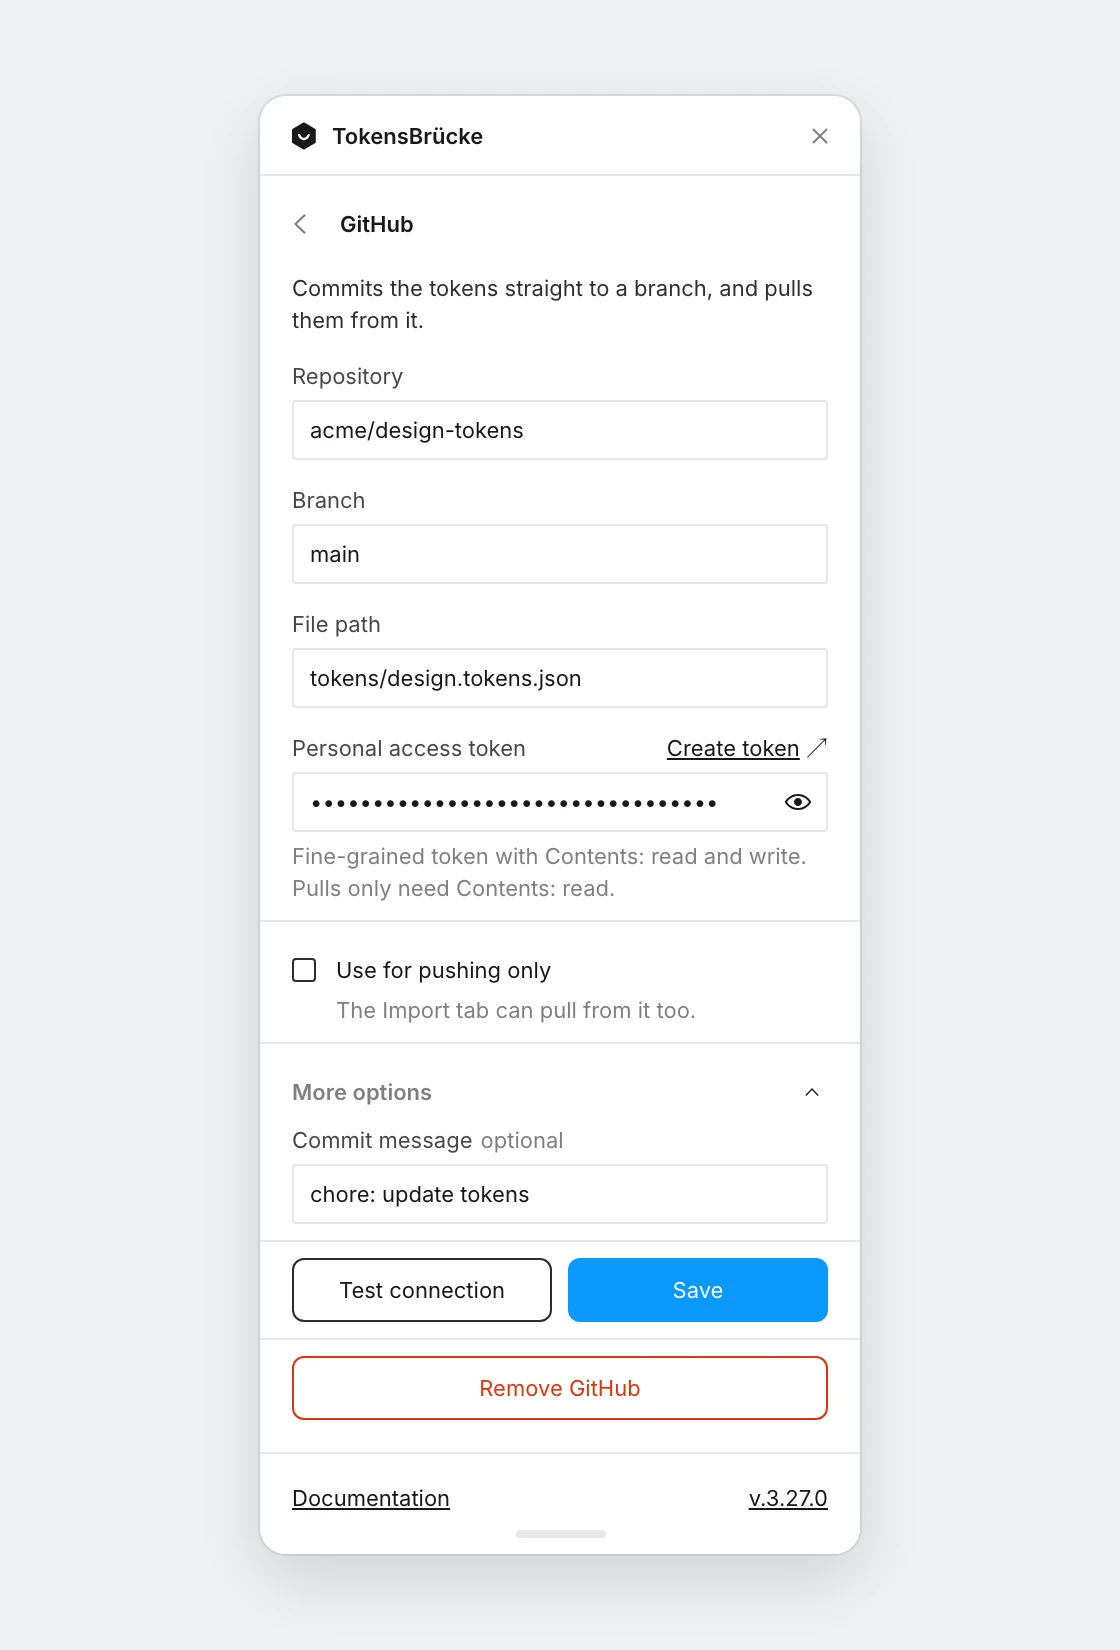
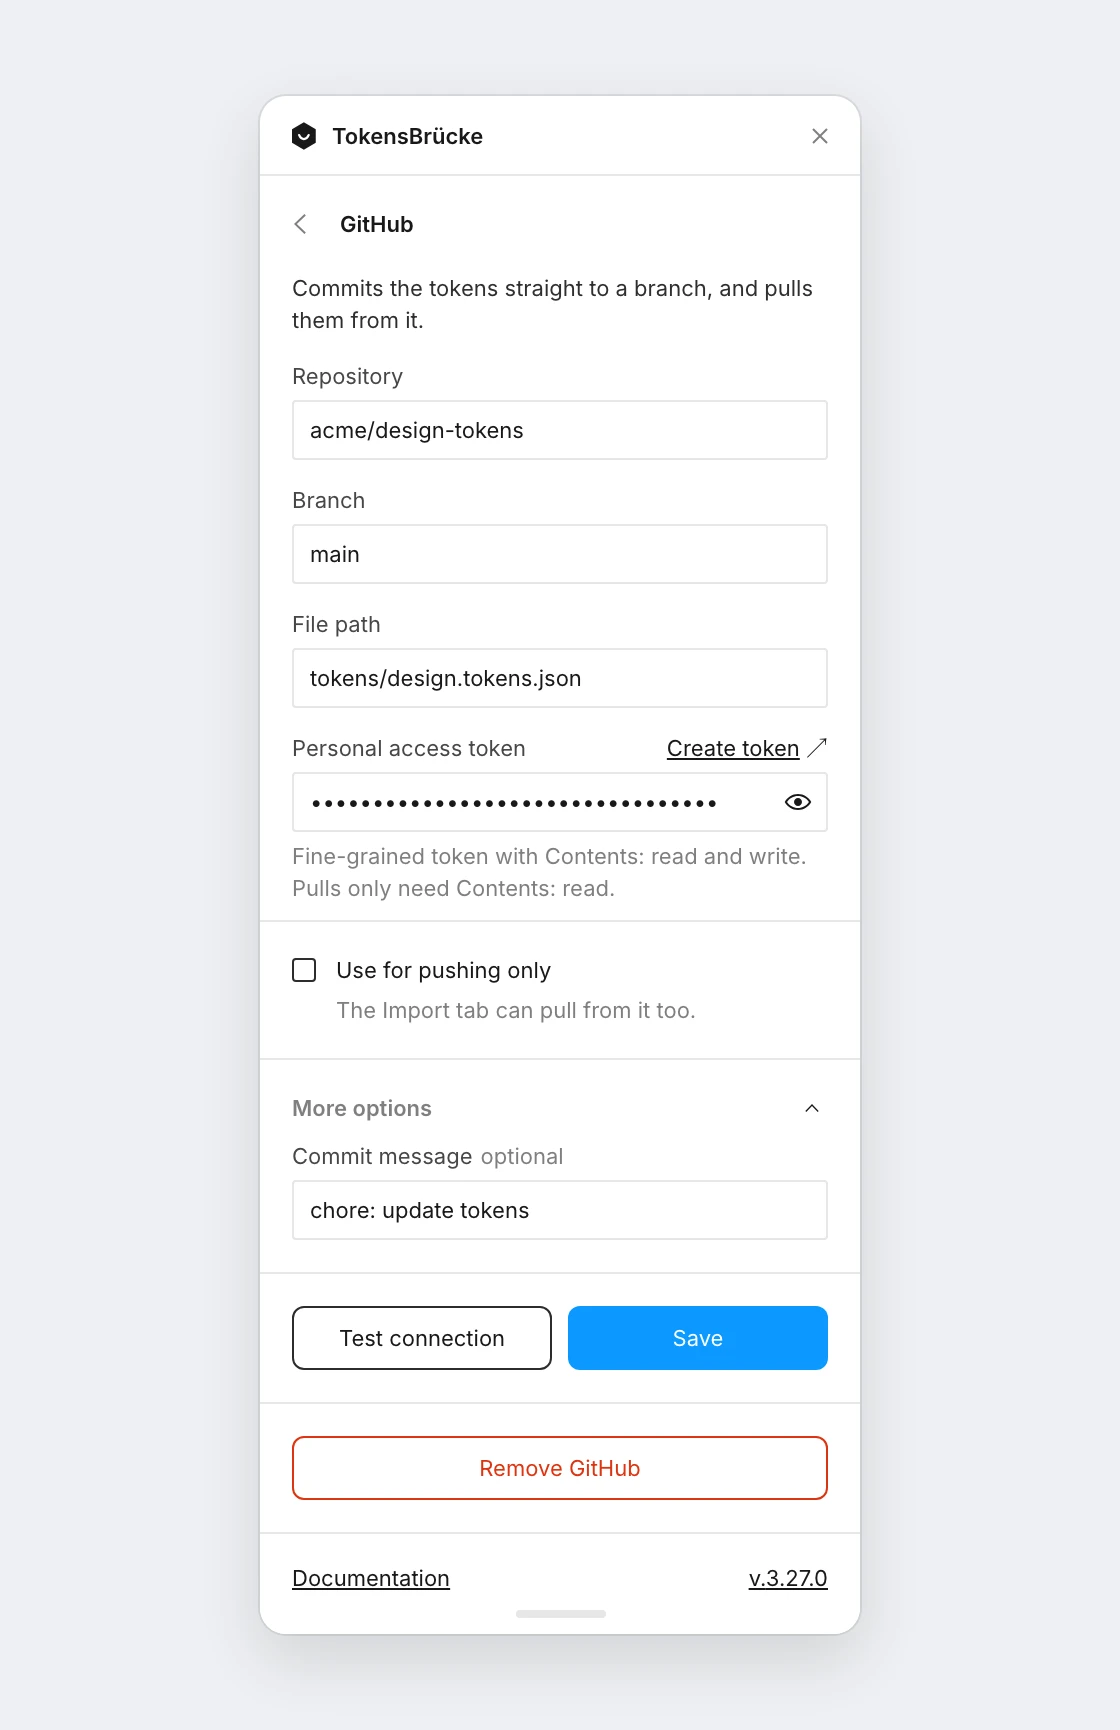
fix(plugin): give the server form sections more air
The sections below the fields get 16 px above and below, like the More
options heading, instead of 8 px.

diff --git a/src/app/views/ServerSettingsView/index.tsx b/src/app/views/ServerSettingsView/index.tsx
@@ -495,14 +495,23 @@ export const ServerSettingsView = (props: ViewProps) => {
             ]}
           />
           {isMoreOpen && (
-            <Stack hasLeftRightPadding gap="var(--space-small)">
+            <Stack
+              hasLeftRightPadding
+              gap="var(--space-small)"
+              className={styles.moreFields}
+            >
               {advancedFields.map(renderField)}
             </Stack>
           )}
         </Panel>
       )}
 
-      <Stack hasLeftRightPadding hasTopBottomPadding gap="var(--space-small)">
+      <Stack
+        hasLeftRightPadding
+        hasTopBottomPadding
+        gap="var(--space-small)"
+        className={styles.section}
+      >
         {connectionStatus}
         <Stack direction="row" gap="var(--space-extra-small)">
           {provider.canTestConnection && (
@@ -519,7 +528,12 @@ export const ServerSettingsView = (props: ViewProps) => {
       </Stack>
 
       {isConfigured && (
-        <Panel topBorder bottomBorder={false} hasLeftRightPadding>
+        <Panel
+          topBorder
+          bottomBorder={false}
+          hasLeftRightPadding
+          className={styles.removeSection}
+        >
           {isConfirmingRemove ? (
             <Stack
               hasLeftRightPadding

diff --git a/src/app/views/ServerSettingsView/styles.module.scss b/src/app/views/ServerSettingsView/styles.module.scss
@@ -36,9 +36,29 @@
 }
 
 // The kit's checkbox has its own inset; line its box up with the fields
-// A full-width line like the one above More options
+// The sections below the fields get the air above the More options
+// heading, whose 32 px row centres its text in 16 px of space
+.section {
+  padding-top: var(--space-medium);
+  padding-bottom: var(--space-medium);
+}
+
+// A full-width line like the one above More options. The checkbox's 32 px
+// row already adds air above its box, so only the bottom needs more
 .onlySection {
   border-top: 1px solid var(--figma-color-border);
+  padding-bottom: var(--space-medium);
+}
+
+// The last field of More options ends as far from the line as the others
+.moreFields {
+  padding-bottom: var(--space-extra-small);
+}
+
+// Above Remove; the footer below it already has the air. Doubled to win
+// over the Panel's own padding, which isn't in the kit's CSS layer
+.removeSection.removeSection {
+  padding-top: var(--space-medium);
 }
 
 .pullOnly {
